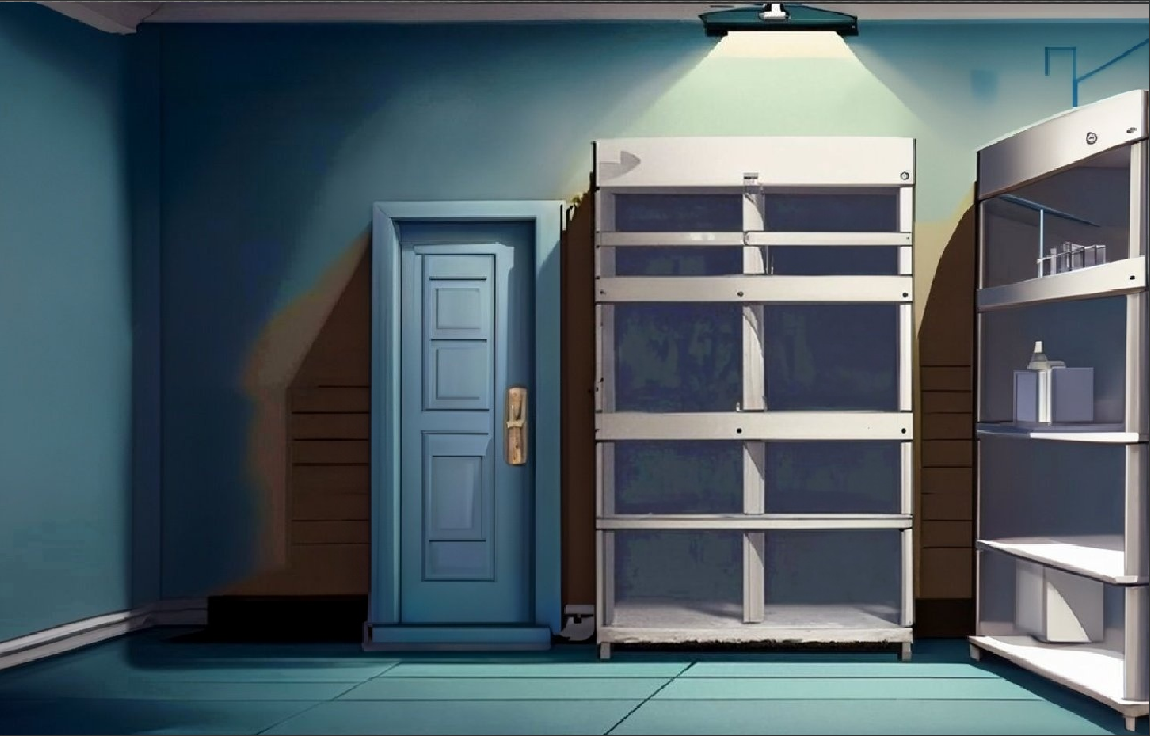
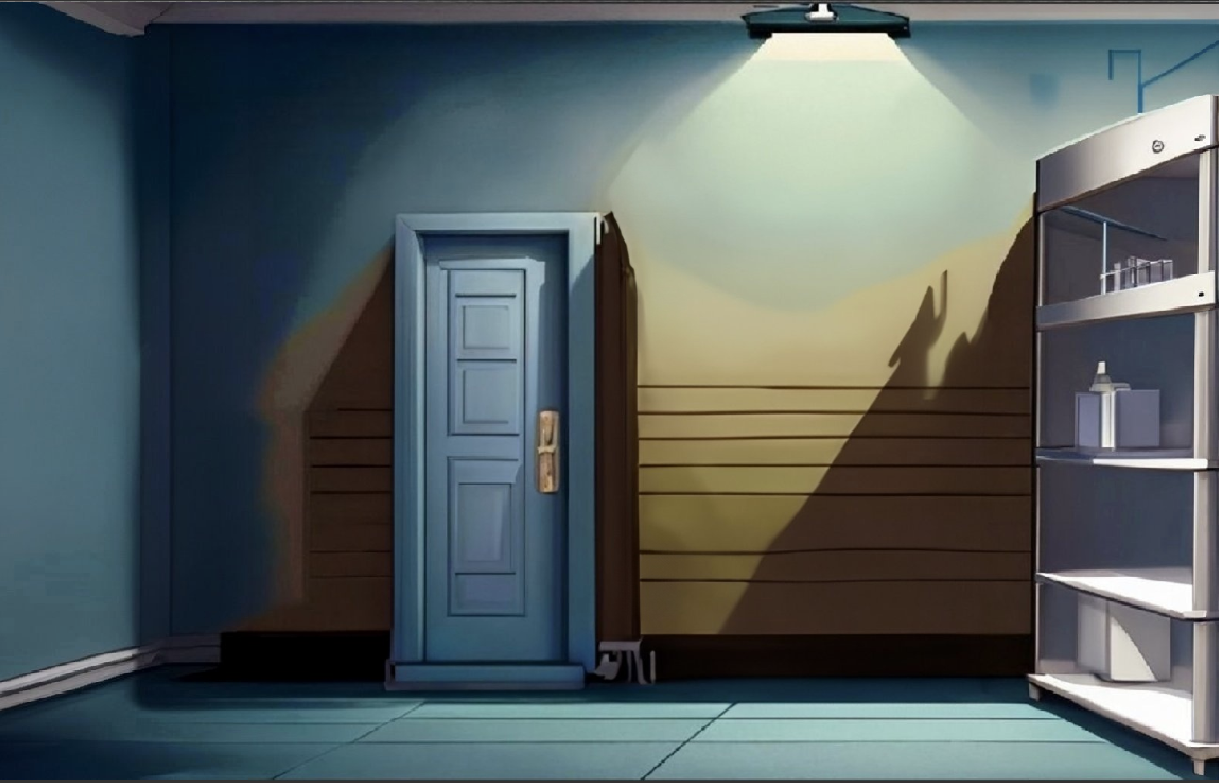
Added moving rack and items in the storage room

diff --git a/src/main/java/nz/ac/auckland/se206/controllers/StorageRoomController.java b/src/main/java/nz/ac/auckland/se206/controllers/StorageRoomController.java
@@ -1,11 +1,15 @@
 package nz.ac.auckland.se206.controllers;
 
 import java.io.IOException;
+import javafx.animation.RotateTransition;
+import javafx.animation.TranslateTransition;
 import javafx.fxml.FXML;
+import javafx.scene.Node;
 import javafx.scene.image.ImageView;
 import javafx.scene.input.MouseEvent;
 import javafx.scene.shape.Polygon;
 import javafx.scene.shape.Rectangle;
+import javafx.util.Duration;
 import nz.ac.auckland.se206.App;
 import nz.ac.auckland.se206.GameState;
 import nz.ac.auckland.se206.RoomManager;
@@ -17,12 +21,25 @@ public class StorageRoomController extends RoomController {
   @FXML private Rectangle mainDoor;
   @FXML private ImageView chemical1;
   @FXML private ImageView chemical2;
+  @FXML private ImageView rack;
   @FXML private Polygon chemical1Select;
   @FXML private Polygon chemical2Select;
 
+  private RotateTransition rackRotation;
+
   /** Initializes the Storage Room view */
   public void initialize() {
-    // Initialization code goes here
+
+    rackRotation = new RotateTransition(Duration.seconds(1), rack);
+    rackRotation.setCycleCount(RotateTransition.INDEFINITE);
+    rackRotation.setByAngle(10);
+    rackRotation.setAutoReverse(true);
+    rackRotation.play();
+
+    animateNode(chemical1, 10, 25);
+    animateNode(chemical1Select, 10, 25);
+    animateNode(chemical2, 10, 15);
+    animateNode(chemical2Select, 10, 15);
 
     // bind common room elements
     RoomManager.bindRoom(
@@ -50,6 +67,21 @@ public class StorageRoomController extends RoomController {
 
     System.out.println();
     System.out.println("************** Initialising StorageRoomController **************");
+  }
+
+  private void animateNode(Node node, int angle, int x) {
+    RotateTransition rotation = new RotateTransition(Duration.seconds(1), node);
+    rotation.setCycleCount(RotateTransition.INDEFINITE);
+    rotation.setByAngle(angle);
+    rotation.setAutoReverse(true);
+
+    TranslateTransition translation = new TranslateTransition(Duration.seconds(1), node);
+    translation.setCycleCount(TranslateTransition.INDEFINITE);
+    translation.setByX(x);
+    translation.setAutoReverse(true);
+
+    rotation.play();
+    translation.play();
   }
 
   /**
